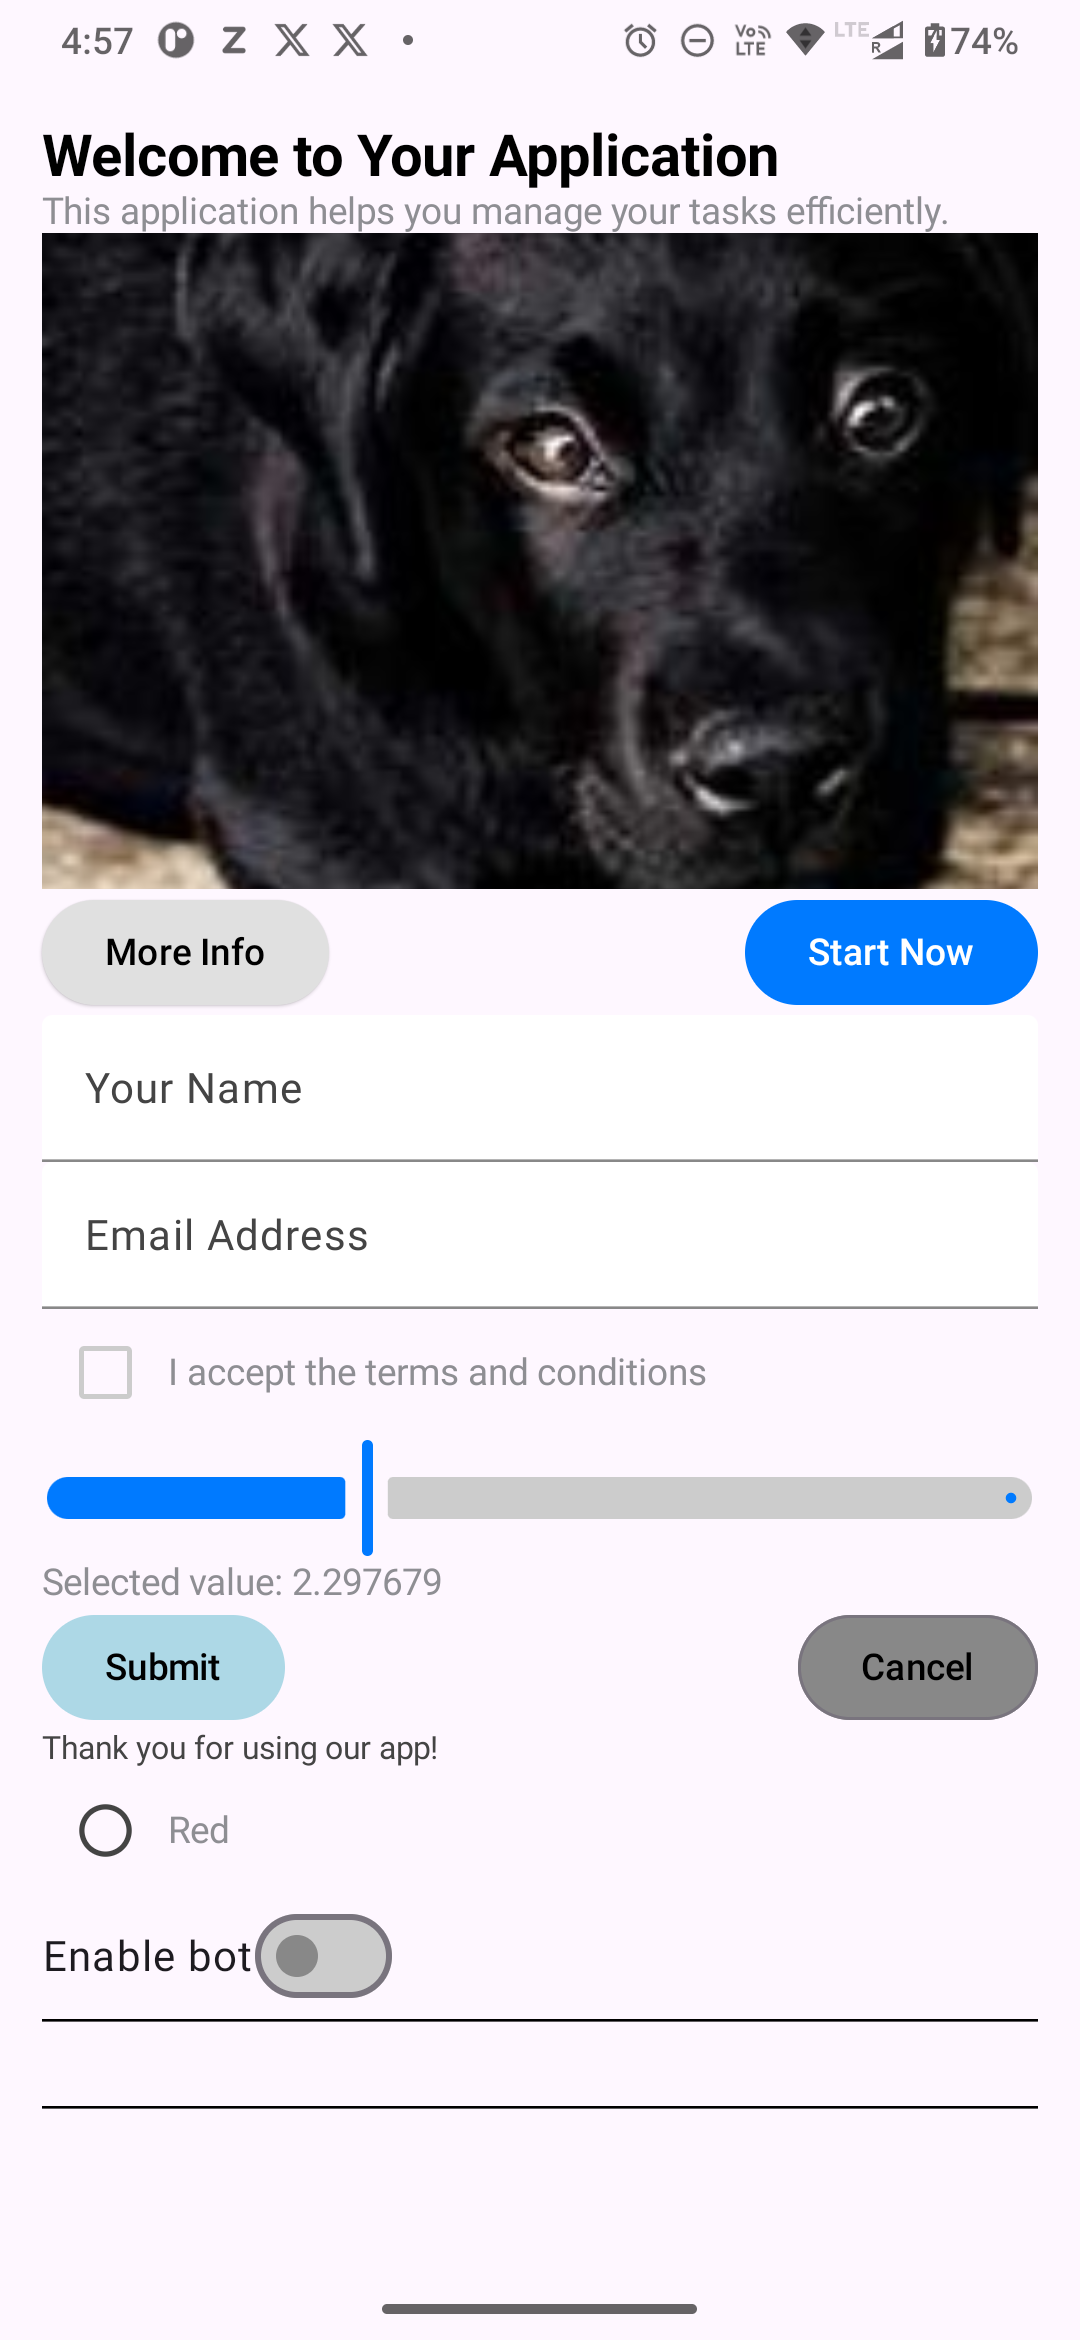
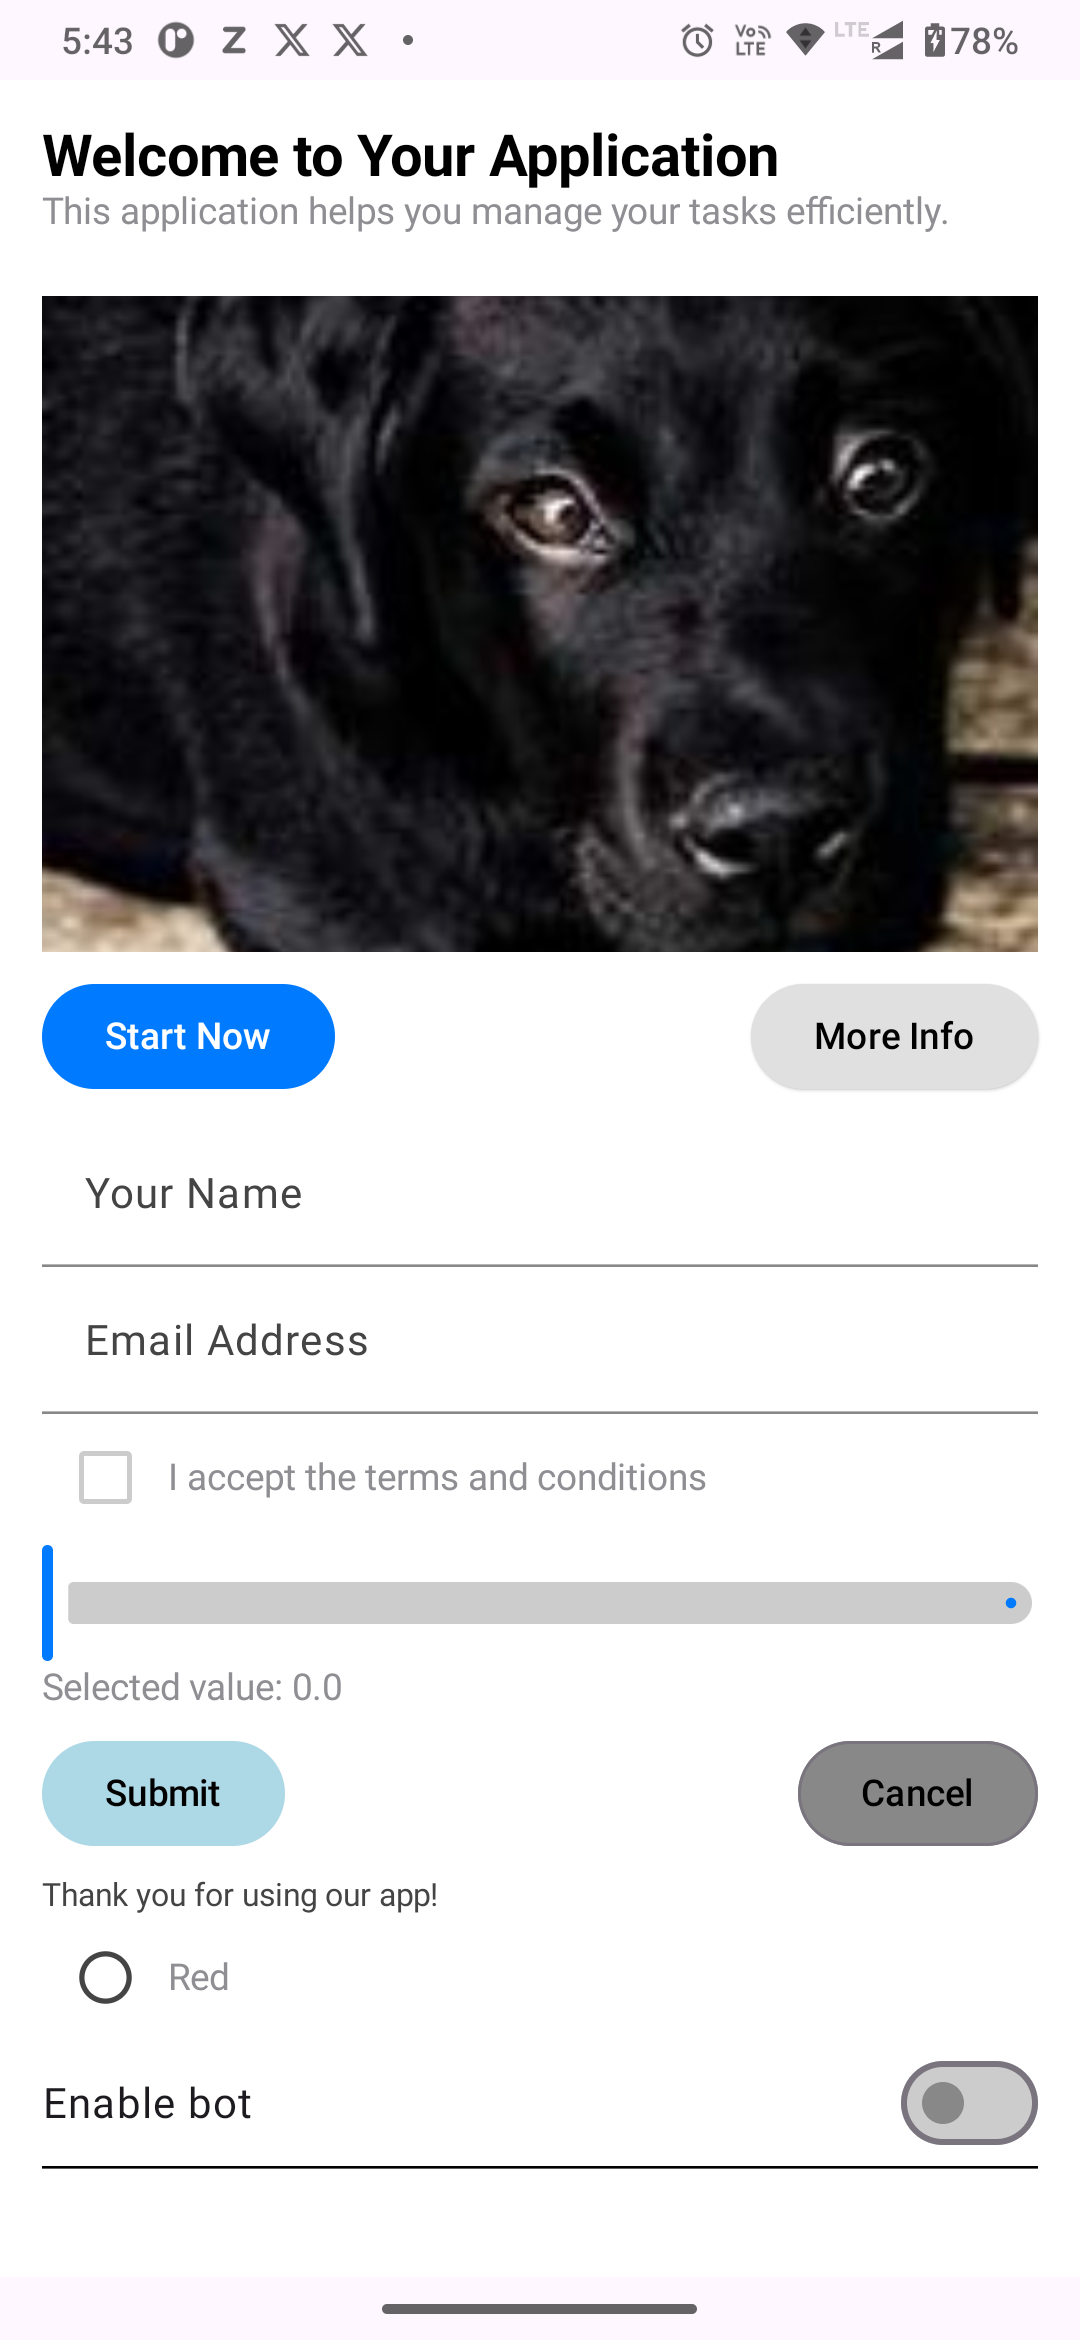
Minor fix

diff --git a/app/src/main/java/com/gowittgroup/uishift/sample/sampledata/ConfigJsonString.kt b/app/src/main/java/com/gowittgroup/uishift/sample/sampledata/ConfigJsonString.kt
@@ -25,7 +25,10 @@ val sampleConfigJson = """
           "type": "Text",
           "id": "appDescription",
           "content": "This application helps you manage your tasks efficiently.",
-          "style": "mainContent"
+          "style": "mainContent",
+          "padding": {
+            "bottom": 24
+          }
         },
         {
           "type": "Image",
@@ -39,12 +42,16 @@ val sampleConfigJson = """
           "type": "Row",
           "id": "buttonRow",
           "width": "fillMaxSpace",
+          "padding": {
+            "top": 8,
+            "bottom": 8
+          },
           "children": [
             {
               "type": "Button",
-              "id": "infoButton",
-              "label": "More Info",
-              "style": "secondaryButton",
+              "id": "startButton",
+              "label": "Start Now",
+              "style": "primaryButton",
               "onClickAction": {
                 "type": "Single",
                 "action": {
@@ -55,9 +62,9 @@ val sampleConfigJson = """
             },
             {
               "type": "Button",
-              "id": "startButton",
-              "label": "Start Now",
-              "style": "primaryButton",
+              "id": "infoButton",
+              "label": "More Info",
+              "style": "secondaryButton",
               "onClickAction": {
                 "type": "Single",
                 "action": {
@@ -101,6 +108,10 @@ val sampleConfigJson = """
           "type": "Row",
           "id": "actionRow",
           "width": "fillMaxSpace",
+          "padding": {
+            "top": 8,
+            "bottom": 8
+          },
           "children": [
             {
               "type": "Button",
@@ -159,7 +170,8 @@ val sampleConfigJson = """
           "type": "Switch",
           "id": "botSetting",
           "label": "Enable bot",
-          "isChecked": true
+          "isChecked": true,
+          "width": "fillMaxSpace"
         },
         {
           "type": "Divider",

diff --git a/app/src/main/java/com/gowittgroup/uishift/sample/MainActivity.kt b/app/src/main/java/com/gowittgroup/uishift/sample/MainActivity.kt
@@ -5,12 +5,14 @@ import android.util.Log
 import androidx.activity.ComponentActivity
 import androidx.activity.compose.setContent
 import androidx.activity.enableEdgeToEdge
+import androidx.compose.foundation.background
 import androidx.compose.foundation.layout.Box
 import androidx.compose.foundation.layout.fillMaxSize
 import androidx.compose.foundation.layout.padding
 import androidx.compose.material3.Scaffold
 import androidx.compose.runtime.Composable
 import androidx.compose.ui.Modifier
+import androidx.compose.ui.graphics.Color
 import androidx.navigation.NavHostController
 import androidx.navigation.compose.NavHost
 import androidx.navigation.compose.composable
@@ -142,7 +144,7 @@ class MainActivity : ComponentActivity() {
 
         setContent {
             UIShiftTheme {
-                Scaffold(modifier = Modifier.fillMaxSize()) { innerPadding ->
+                Scaffold(modifier = Modifier.fillMaxSize().background(color = Color.White)) { innerPadding ->
                     val navController = rememberNavController()
 
                     NavHost(navController = navController, startDestination = "home") {
@@ -150,7 +152,7 @@ class MainActivity : ComponentActivity() {
                         composable("details") { DetailsScreen(navController) }
                     }
 
-                    Box(modifier = Modifier.padding(innerPadding)) {
+                    Box(modifier = Modifier.padding(innerPadding).background(color = Color.White).fillMaxSize()) {
                         val configRepository =
                           //  ConfigRepositoryImpl2(localConfig)
                         ConfigRepositoryImpl(sampleConfigJson)
